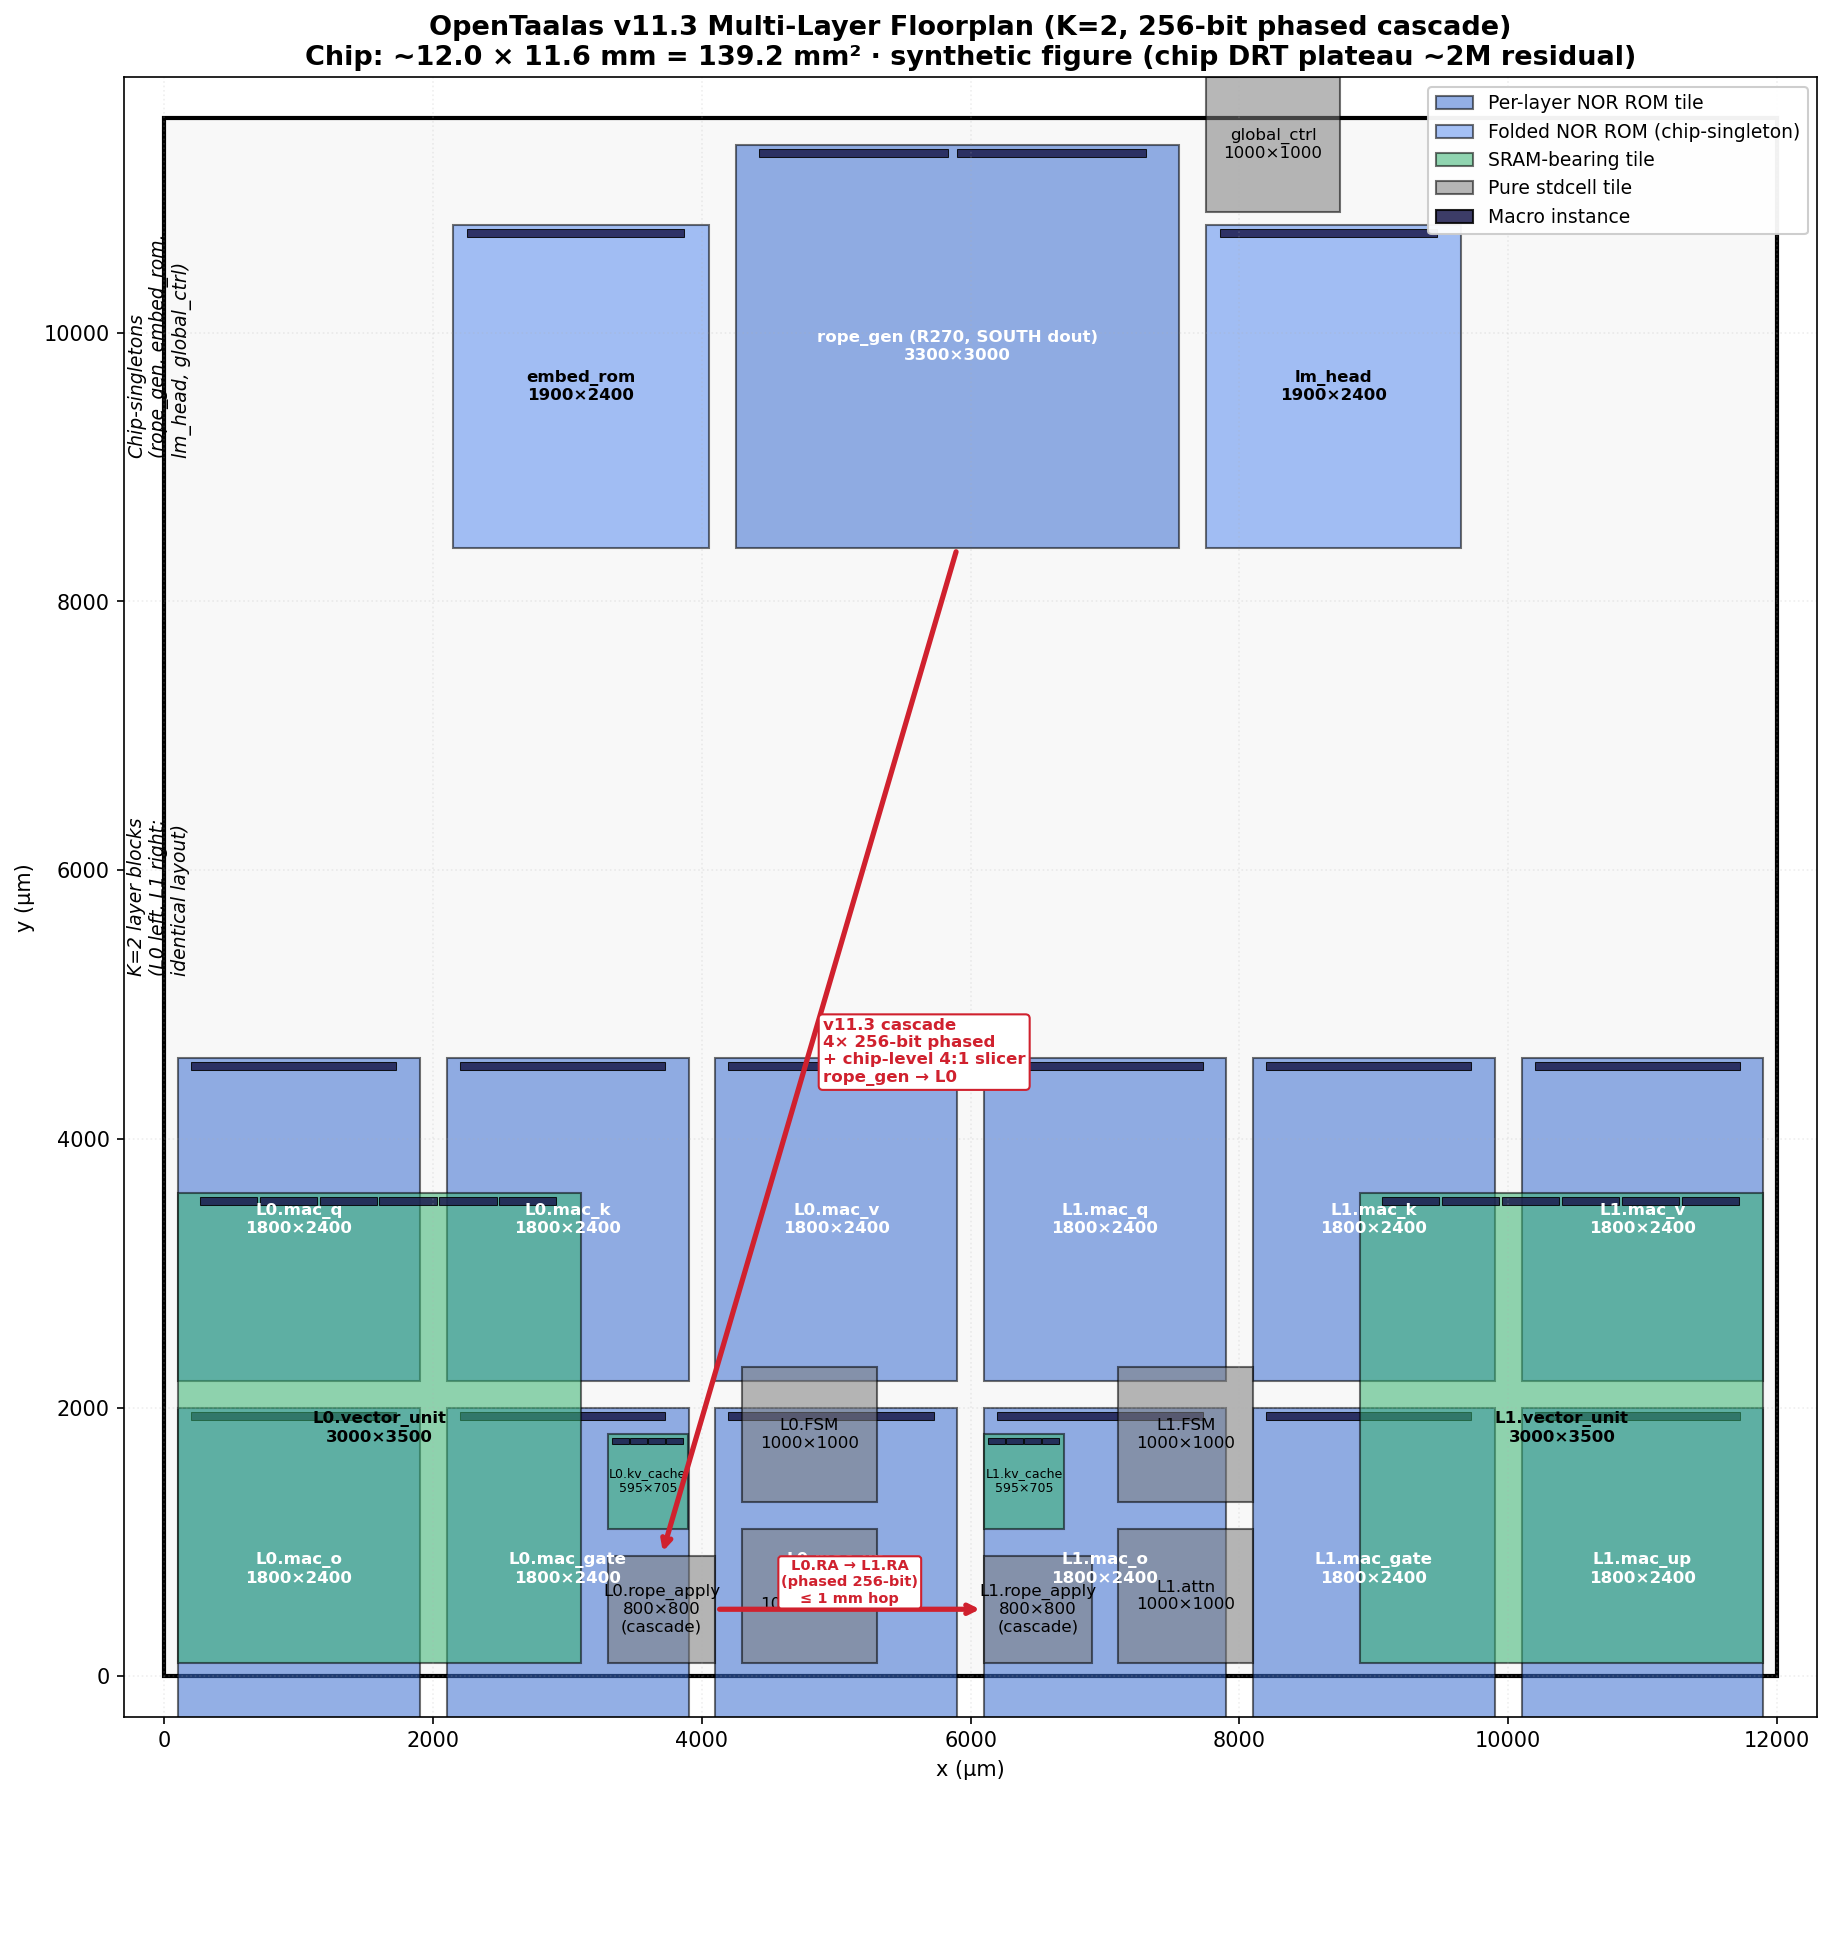
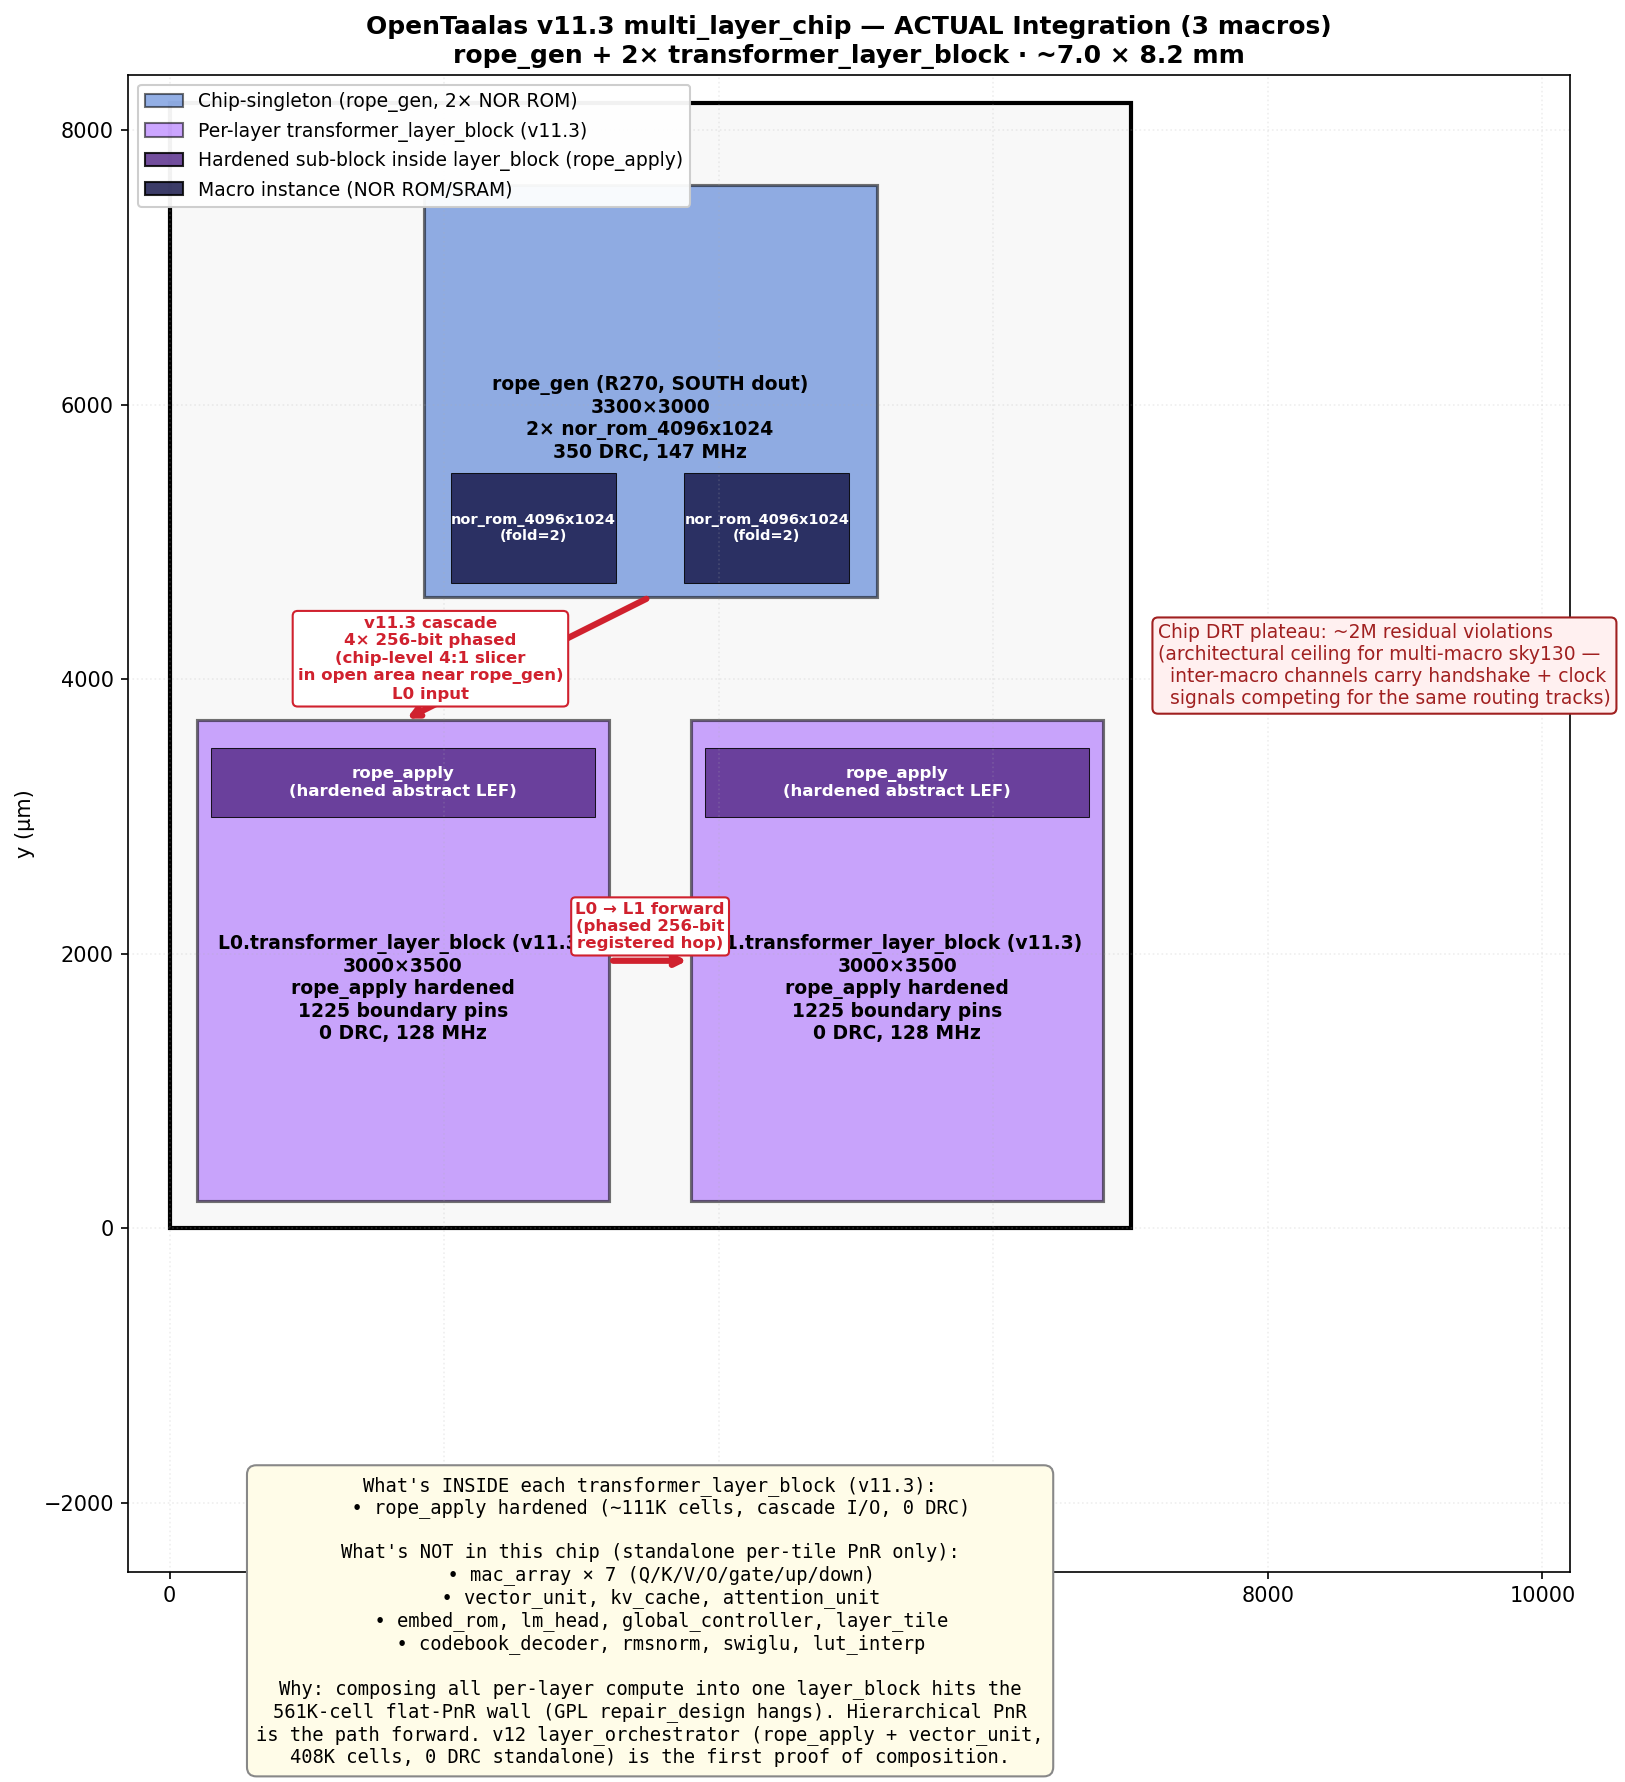
docs: redraw multi_layer_floorplan to match actual v11.3 RTL
The previous figure showed per-layer mac_q/mac_k/mac_v/.../vector_unit/
kv_cache as if they were instantiated at chip level. That was wrong:
multi_layer_chip_wrapper.sv actually instantiates only 3 macros:

  rope_gen + 2× transformer_layer_block

Each transformer_layer_block wraps rope_apply only (~111K cells). The
mac_arrays / vector_unit / kv_cache / attention_unit / embed_rom etc.
are standalone per-tile PnR validations that are NOT in the v11.3
multi-layer chip integration — they hit the 561K-cell flat-PnR wall
when folded into a layer_block.

The redrawn figure shows:
- rope_gen (with the 2 internal nor_rom_4096x1024 fold=2 macros)
- 2× L0/L1.transformer_layer_block (with the hardened rope_apply abstract
  LEF visible inside each)
- Red v11.3 256-bit phased cascade arrows
- A panel listing what's NOT in this chip (and why)
- The chip DRT ~2M residual plateau callout

Updated captions in backend-metrics.md and project-status.md to clarify
this is the real v11.3 chip topology, not a hypothetical full layout.

Previous (misleading) figure preserved as images/multi_layer_floorplan_v8.png.

diff --git a/scripts/render_multi_layer_chip.py b/scripts/render_multi_layer_chip.py
@@ -1,225 +1,172 @@
 #!/usr/bin/env python3
-"""Render the v11.3 K=2 multi-layer floorplan with 256-bit phased cascade.
+"""Render the v11.3 multi_layer_chip floorplan — the ACTUAL integration.
 
-Two physical transformer_layer_block macros (L0, L1) sit side-by-side. The
-chip-shared rope_gen sits at top with a chip-level 4:1 phase slicer feeding
-phased 256-bit segments to each layer_block.
+What is hardened at chip level today (multi_layer_chip_wrapper.sv):
+    1× rope_gen               (chip-singleton)
+    2× transformer_layer_block (per layer; each wraps rope_apply only)
+    + chip-level 4:1 phase slicer in glue logic
 
-v8 → v11.3 changes:
-- rope_apply.k cascade serialized: 1024-bit single-cycle → 4× 256-bit phased
-- transformer_layer_block hardened with 256-bit cascade ports (1225 pins,
-  down from v10's 4290 pins — 3.5× reduction)
-- Chip wrapper has a 4:1 phase slicer in the open area near rope_gen
-- Chip DRT iter-0 violations 38M → 3.66M (10×↓), plateau ~3M → ~2M (33%↓)
-- Chip-level routing dominated by control + handshake + clock in the
-  inter-macro channels — architectural ceiling, not flow-tunable
+That's it. The mac_arrays, vector_unit, kv_cache, attention_unit etc. are
+standalone per-tile PnR validations — they are NOT instantiated in
+multi_layer_chip. Folding them into transformer_layer_block hits the
+561K-cell flat-PnR wall (per `feedback_chip_routing_plateau.md`).
+
+The figure draws the chip honestly and shows where the per-layer compute
+would go in a future hierarchical-PnR-enabled integration.
+
+Updated 2026-05-13 to reflect actual v11.3 RTL (was previously drawing
+hypothetical per-layer mac/vector/kv tiles as if they were integrated).
 """
 import os
 import matplotlib.pyplot as plt
 from matplotlib.patches import Rectangle
 
 
-# Per-tile (name, w, h, n_macros, color, label, group)
-PER_LAYER_TILES = [
-    # mac_array 3x3 grid (Q, K, V, O on row 0; gate, up, down on row 1; row 2 has 1 spare slot used by rope_apply)
-    ("mac_q",    1800, 2400, 1, "#3a6dd0", "mac_q\n1800×2400"),
-    ("mac_k",    1800, 2400, 1, "#3a6dd0", "mac_k\n1800×2400"),
-    ("mac_v",    1800, 2400, 1, "#3a6dd0", "mac_v\n1800×2400"),
-    ("mac_o",    1800, 2400, 1, "#3a6dd0", "mac_o\n1800×2400"),
-    ("mac_gate", 1800, 2400, 1, "#3a6dd0", "mac_gate\n1800×2400"),
-    ("mac_up",   1800, 2400, 1, "#3a6dd0", "mac_up\n1800×2400"),
-    ("mac_down", 1800, 2400, 1, "#3a6dd0", "mac_down\n1800×2400"),
-    ("vector_unit", 3000, 3500, 6, "#37b370", "vector_unit\n3000×3500"),
-    ("kv_cache",     595,  705, 4, "#37b370", "kv_cache\n595×705"),
-    ("attention_unit",1000,1000,0, "#7c7c7c", "attn\n1000×1000"),
-    ("layer_tile",   1000,1000, 0, "#7c7c7c", "FSM\n1000×1000"),
-    ("rope_apply",    800, 800, 0, "#7c7c7c", "rope_apply\n800×800\n(cascade)"),
+# Actual chip-level macros in multi_layer_chip_wrapper.sv (v11.3)
+CHIP_MACROS = [
+    # (name, w, h, color, label)
+    ("rope_gen",    3300, 3000, "#3a6dd0",
+        "rope_gen (R270, SOUTH dout)\n3300×3000\n2× nor_rom_4096x1024\n350 DRC, 147 MHz"),
+    ("l0_block",    3000, 3500, "#a25dff",
+        "L0.transformer_layer_block (v11.3)\n3000×3500\nrope_apply hardened\n1225 boundary pins\n0 DRC, 128 MHz"),
+    ("l1_block",    3000, 3500, "#a25dff",
+        "L1.transformer_layer_block (v11.3)\n3000×3500\nrope_apply hardened\n1225 boundary pins\n0 DRC, 128 MHz"),
 ]
-CHIP_SINGLETONS = [
-    ("rope_gen",    3300, 3000, 2, "#3a6dd0", "rope_gen (R270, SOUTH dout)\n3300×3000"),
-    ("embed_rom",   1900, 2400, 1, "#5b8def", "embed_rom\n1900×2400"),
-    ("lm_head",     1900, 2400, 1, "#5b8def", "lm_head\n1900×2400"),
-    ("global_ctrl", 1000, 1000, 0, "#7c7c7c", "global_ctrl\n1000×1000"),
-]
-
-
-def layer_block_layout(x0, y0, mirror=False):
-    """Place one transformer-layer block at origin (x0, y0).
-
-    Layout per block:
-      mac3x3 grid (5800 × 7600) on top
-      bottom row: VU (3000) | rope_apply (800) | kv_cache (595) | attn (1000) | FSM (1000)
-                 (~6395 wide, fits within 5800 if VU is its own subrow)
-
-    For mirror=True (L1), swap the rope_apply to LEFT side so its EAST cos_out
-    faces L1 NEXT (no L2 in K=2, but conceptually right).
-
-    Returns: dict tile_name → (x, y) (lower-left corner)
-    """
-    placements = {}
-    ch = 200  # channel
-    # mac3x3: 3 cols × 3 rows of (1800×2400). Row order top-to-bottom: Q-K-V, O-gate-up, down-spare-spare
-    mac_names = [
-        ["mac_q", "mac_k", "mac_v"],
-        ["mac_o", "mac_gate", "mac_up"],
-        ["mac_down", None, None],
-    ]
-    # Place mac3x3 in upper part of layer band
-    mac_grid_top_y = y0 + 4500  # leaves room for VU/ctrl below
-    for r in range(3):
-        for c in range(3):
-            name = mac_names[r][c]
-            if name is None:
-                continue
-            mx = x0 + c * (1800 + ch)
-            my = mac_grid_top_y - (r + 1) * 2400 - r * ch
-            placements[name] = (mx, my)
-    # Bottom row: VU (3000×3500), then small tiles
-    vu_x = x0 + (0 if not mirror else (5800 - 3000))
-    vu_y = y0
-    placements["vector_unit"] = (vu_x, vu_y)
-    # Small tiles in remaining width
-    sm_x = x0 + (3000 + ch if not mirror else 0)
-    sm_y_base = y0
-    placements["rope_apply"]    = (sm_x, sm_y_base + 0)
-    placements["kv_cache"]      = (sm_x, sm_y_base + 800 + ch)
-    placements["attention_unit"] = (sm_x + 800 + ch, sm_y_base + 0)
-    placements["layer_tile"]     = (sm_x + 800 + ch, sm_y_base + 1000 + ch)
-    return placements
 
 
 def main():
-    # Chip dimensions
-    layer_block_w = 5800
-    layer_block_h = 8000  # mac3x3 (7400) + bottom row (3500) - 2900 overlap accounting; rough
-    layer_block_h = 4500 + 3500 + 200  # actual: bottom row 3500 + mac3x3 with mac_grid_top_y=4500
-    layer_block_h = 8200  # 4500 + 2400 + 1300 (spacing)
+    # Chip layout: rope_gen on top, 2 layer_blocks below side-by-side.
+    # Channel margin between macros.
+    ch = 300
 
-    chip_w = 2 * layer_block_w + 200  # 11800
-    chip_h = layer_block_h + 200 + 3000  # layer band + channel + singleton band
-    # Bump for label margins
-    chip_w_eff = chip_w + 200
-    chip_h_eff = chip_h + 200
+    # Layer block placements (bottom band)
+    l0_x, l0_y = 200, 200
+    l1_x, l1_y = l0_x + 3000 + 600, 200
 
-    fig, ax = plt.subplots(figsize=(16, 13))
-    ax.add_patch(Rectangle((0, 0), chip_w_eff, chip_h_eff, linewidth=2,
+    # rope_gen placement (top band, centered above the two blocks)
+    rg_x = (l0_x + l1_x + 3000) // 2 - 3300 // 2
+    rg_y = l0_y + 3500 + ch + 600
+
+    placements = {
+        "rope_gen": (rg_x, rg_y),
+        "l0_block": (l0_x, l0_y),
+        "l1_block": (l1_x, l1_y),
+    }
+
+    chip_w = l1_x + 3000 + 200
+    chip_h = rg_y + 3000 + 600
+
+    fig, ax = plt.subplots(figsize=(13, 12))
+    ax.add_patch(Rectangle((0, 0), chip_w, chip_h, linewidth=2,
                            edgecolor="black", facecolor="#f8f8f8"))
 
-    # === TOP BAND: chip-singletons ===
-    top_y = layer_block_h + 200
-    cur_x = 100
-    singleton_pos = {}
-    for name, w, h, n_macros, color, label in CHIP_SINGLETONS:
-        # Stack singletons left-to-right; rope_gen last (it's the widest)
-        pass
-    # Manual placement: rope_gen centered horizontally, embed_rom to its left,
-    # lm_head to its right, global_ctrl tucked next to lm_head.
-    rg_w, rg_h = 3300, 3000
-    rg_x = (chip_w - rg_w) // 2
-    singleton_pos["rope_gen"] = (rg_x, top_y)
-    singleton_pos["embed_rom"] = (rg_x - 1900 - 200, top_y)
-    singleton_pos["lm_head"]   = (rg_x + rg_w + 200, top_y)
-    singleton_pos["global_ctrl"] = (rg_x + rg_w + 200, top_y + 2400 + 100)
-
-    # === LAYER BAND: 2 layer blocks side by side ===
-    l0 = layer_block_layout(100, 100, mirror=False)
-    l1 = layer_block_layout(100 + layer_block_w + 200, 100, mirror=True)
-
-    # Draw all placed tiles
-    def draw_tile(name, x, y, w, h, n_macros, color, label, prefix=""):
-        edge = "black"
-        lw = 1.0
-        ax.add_patch(Rectangle((x, y), w, h, linewidth=lw,
-                               edgecolor=edge, facecolor=color, alpha=0.55))
-        if n_macros and n_macros > 0:
-            macro_h = min(60, h * 0.06)
-            macro_w = w * 0.85 / max(n_macros, 1)
-            for i in range(n_macros):
-                mx = x + (w - n_macros * macro_w * 1.05) / 2 + i * macro_w * 1.05
-                my = y + h - macro_h - 30
-                ax.add_patch(Rectangle((mx, my), macro_w, macro_h,
+    # Draw each macro
+    for name, w, h, color, label in CHIP_MACROS:
+        x, y = placements[name]
+        ax.add_patch(Rectangle((x, y), w, h, linewidth=1.5,
+                               edgecolor="black", facecolor=color, alpha=0.55))
+        # Indicate the inner macros (NOR ROM for rope_gen, abstract for layer_block)
+        if name == "rope_gen":
+            for i, mx in enumerate([x + 200, x + 1900]):
+                ax.add_patch(Rectangle((mx, y + 100), 1200, 800,
                                        linewidth=0.5, edgecolor="black",
                                        facecolor="#1a1a4d", alpha=0.85))
-        fontsize = 6 if min(w, h) < 700 else 8
-        ax.text(x + w / 2, y + h / 2, prefix + label, ha="center", va="center",
-                fontsize=fontsize,
-                color="white" if color == "#3a6dd0" else "black",
-                weight="bold" if min(w, h) >= 1500 else "normal")
+                ax.text(mx + 600, y + 500, f"nor_rom_4096x1024\n(fold=2)",
+                        ha="center", va="center", fontsize=7, color="white", weight="bold")
+        elif "block" in name:
+            # Show the abstract LEF status
+            ax.add_patch(Rectangle((x + 100, y + h - 700), w - 200, 500,
+                                   linewidth=0.5, edgecolor="black",
+                                   facecolor="#5a2f8c", alpha=0.85))
+            ax.text(x + w / 2, y + h - 450, "rope_apply\n(hardened abstract LEF)",
+                    ha="center", va="center", fontsize=8, color="white", weight="bold")
 
-    for name, w, h, n_macros, color, label in PER_LAYER_TILES:
-        x, y = l0[name]
-        draw_tile(name, x, y, w, h, n_macros, color, label, prefix="L0.")
-        x, y = l1[name]
-        draw_tile(name, x, y, w, h, n_macros, color, label, prefix="L1.")
+        ax.text(x + w / 2, y + h / 2 - 200, label, ha="center", va="center",
+                fontsize=9, color="black", weight="bold")
 
-    for name, w, h, n_macros, color, label in CHIP_SINGLETONS:
-        x, y = singleton_pos[name]
-        draw_tile(name, x, y, w, h, n_macros, color, label)
-
-    # === Cascade arrows ===
-    # rope_gen SOUTH → L0.rope_apply NORTH
-    rg_x, rg_y = singleton_pos["rope_gen"]
-    rg_south_x = rg_x + rg_w / 2
+    # === Cascade arrows (v11.3 256-bit phased) ===
+    # rope_gen SOUTH → L0.layer_block (cos/sin row, sliced 4:1 in chip glue)
+    rg_south_x = rg_x + 3300 / 2
     rg_south_y = rg_y
-    l0_ra_x, l0_ra_y = l0["rope_apply"]
-    l0_ra_north_x = l0_ra_x + 800 / 2
-    l0_ra_north_y = l0_ra_y + 800
+    l0_north_x = l0_x + 3000 / 2
+    l0_north_y = l0_y + 3500
     ax.annotate("",
-                xy=(l0_ra_north_x, l0_ra_north_y),
+                xy=(l0_north_x, l0_north_y),
                 xytext=(rg_south_x, rg_south_y),
-                arrowprops=dict(arrowstyle="->", color="#d0212e", lw=2.5))
-    ax.text((rg_south_x + l0_ra_north_x) / 2 + 100,
-            (rg_south_y + l0_ra_north_y) / 2,
-            "v11.3 cascade\n4× 256-bit phased\n+ chip-level 4:1 slicer\nrope_gen → L0",
-            ha="left", va="center", fontsize=8, color="#d0212e", weight="bold",
+                arrowprops=dict(arrowstyle="->", color="#d0212e", lw=3))
+    ax.text(rg_south_x - 1600, (rg_south_y + l0_north_y) / 2,
+            "v11.3 cascade\n4× 256-bit phased\n(chip-level 4:1 slicer\nin open area near rope_gen)\nL0 input",
+            ha="center", va="center", fontsize=8, color="#d0212e", weight="bold",
+            bbox=dict(boxstyle="round,pad=0.3", facecolor="white", edgecolor="#d0212e"))
+
+    # L0 → L1 forward cascade (registered pass-through)
+    l0_east_x = l0_x + 3000
+    l0_east_y = l0_y + 3500 / 2
+    l1_west_x = l1_x
+    l1_west_y = l1_y + 3500 / 2
+    ax.annotate("",
+                xy=(l1_west_x, l1_west_y),
+                xytext=(l0_east_x, l0_east_y),
+                arrowprops=dict(arrowstyle="->", color="#d0212e", lw=3))
+    ax.text((l0_east_x + l1_west_x) / 2, (l0_east_y + l1_west_y) / 2 + 250,
+            "L0 → L1 forward\n(phased 256-bit\nregistered hop)",
+            ha="center", va="center", fontsize=8, color="#d0212e", weight="bold",
             bbox=dict(boxstyle="round,pad=0.25", facecolor="white", edgecolor="#d0212e"))
 
-    # L0.rope_apply EAST → L1.rope_apply WEST (cascade hop)
-    l0_ra_east_x = l0_ra_x + 800
-    l0_ra_east_y = l0_ra_y + 800 / 2
-    l1_ra_x, l1_ra_y = l1["rope_apply"]
-    l1_ra_west_x = l1_ra_x
-    l1_ra_west_y = l1_ra_y + 800 / 2
-    ax.annotate("",
-                xy=(l1_ra_west_x, l1_ra_west_y),
-                xytext=(l0_ra_east_x, l0_ra_east_y),
-                arrowprops=dict(arrowstyle="->", color="#d0212e", lw=2.5))
-    midx = (l0_ra_east_x + l1_ra_west_x) / 2
-    midy = (l0_ra_east_y + l1_ra_west_y) / 2
-    ax.text(midx, midy + 200,
-            "L0.RA → L1.RA\n(phased 256-bit)\n≤ 1 mm hop",
-            ha="center", va="center", fontsize=7, color="#d0212e", weight="bold",
-            bbox=dict(boxstyle="round,pad=0.2", facecolor="white", edgecolor="#d0212e"))
+    # === Note: what's missing from this chip ===
+    note_text = (
+        "What's INSIDE each transformer_layer_block (v11.3):\n"
+        "  • rope_apply hardened (~111K cells, cascade I/O, 0 DRC)\n"
+        "\n"
+        "What's NOT in this chip (standalone per-tile PnR only):\n"
+        "  • mac_array × 7 (Q/K/V/O/gate/up/down)\n"
+        "  • vector_unit, kv_cache, attention_unit\n"
+        "  • embed_rom, lm_head, global_controller, layer_tile\n"
+        "  • codebook_decoder, rmsnorm, swiglu, lut_interp\n"
+        "\n"
+        "Why: composing all per-layer compute into one layer_block hits the\n"
+        "561K-cell flat-PnR wall (GPL repair_design hangs). Hierarchical PnR\n"
+        "is the path forward. v12 layer_orchestrator (rope_apply + vector_unit,\n"
+        "408K cells, 0 DRC standalone) is the first proof of composition."
+    )
+    ax.text(chip_w / 2, -1800, note_text,
+            ha="center", va="top", fontsize=9, family="monospace",
+            bbox=dict(boxstyle="round,pad=0.5", facecolor="#fffce8", edgecolor="#888"))
+
+    # === Chip DRT plateau callout ===
+    plateau_text = (
+        "Chip DRT plateau: ~2M residual violations\n"
+        "(architectural ceiling for multi-macro sky130 — \n"
+        "  inter-macro channels carry handshake + clock\n"
+        "  signals competing for the same routing tracks)"
+    )
+    ax.text(chip_w + 200, chip_h / 2, plateau_text,
+            ha="left", va="center", fontsize=9, color="#a02020",
+            bbox=dict(boxstyle="round,pad=0.3", facecolor="#fff0f0", edgecolor="#a02020"))
 
     # Title and axes
-    ax.set_xlim(-300, chip_w_eff + 300)
-    ax.set_ylim(-300, chip_h_eff + 300)
+    ax.set_xlim(-300, chip_w + 3200)
+    ax.set_ylim(-2500, chip_h + 200)
     ax.set_aspect("equal")
     ax.set_xlabel("x (µm)")
     ax.set_ylabel("y (µm)")
-    title = ("OpenTaalas v11.3 Multi-Layer Floorplan (K=2, 256-bit phased cascade)\n"
-             f"Chip: ~{chip_w_eff/1000:.1f} × {chip_h_eff/1000:.1f} mm "
-             f"= {chip_w_eff*chip_h_eff/1e6:.1f} mm² · synthetic figure (chip DRT plateau ~2M residual)")
-    ax.set_title(title, fontsize=13, weight="bold")
+    title = ("OpenTaalas v11.3 multi_layer_chip — ACTUAL Integration (3 macros)\n"
+             f"rope_gen + 2× transformer_layer_block · "
+             f"~{chip_w/1000:.1f} × {chip_h/1000:.1f} mm")
+    ax.set_title(title, fontsize=12, weight="bold")
     ax.grid(True, alpha=0.2, linestyle=":")
 
-    # Legend (reuse v7 colors)
     legend_elems = [
-        Rectangle((0,0), 1, 1, facecolor="#3a6dd0", alpha=0.55, edgecolor="black", label="Per-layer NOR ROM tile"),
-        Rectangle((0,0), 1, 1, facecolor="#5b8def", alpha=0.55, edgecolor="black", label="Folded NOR ROM (chip-singleton)"),
-        Rectangle((0,0), 1, 1, facecolor="#37b370", alpha=0.55, edgecolor="black", label="SRAM-bearing tile"),
-        Rectangle((0,0), 1, 1, facecolor="#7c7c7c", alpha=0.55, edgecolor="black", label="Pure stdcell tile"),
-        Rectangle((0,0), 1, 1, facecolor="#1a1a4d", alpha=0.85, edgecolor="black", label="Macro instance"),
+        Rectangle((0,0), 1, 1, facecolor="#3a6dd0", alpha=0.55, edgecolor="black",
+                  label="Chip-singleton (rope_gen, 2× NOR ROM)"),
+        Rectangle((0,0), 1, 1, facecolor="#a25dff", alpha=0.55, edgecolor="black",
+                  label="Per-layer transformer_layer_block (v11.3)"),
+        Rectangle((0,0), 1, 1, facecolor="#5a2f8c", alpha=0.85, edgecolor="black",
+                  label="Hardened sub-block inside layer_block (rope_apply)"),
+        Rectangle((0,0), 1, 1, facecolor="#1a1a4d", alpha=0.85, edgecolor="black",
+                  label="Macro instance (NOR ROM/SRAM)"),
     ]
-    ax.legend(handles=legend_elems, loc="upper right", fontsize=9, framealpha=0.95)
-
-    # Annotation key
-    ax.text(-280, chip_h_eff / 2,
-            "K=2 layer blocks\n(L0 left, L1 right;\nidentical layout)",
-            ha="left", va="center", fontsize=9, style="italic", rotation=90)
-    ax.text(-280, top_y + 1500,
-            "Chip-singletons\n(rope_gen, embed_rom,\nlm_head, global_ctrl)",
-            ha="left", va="center", fontsize=9, style="italic", rotation=90)
+    ax.legend(handles=legend_elems, loc="upper left", fontsize=9, framealpha=0.95)
 
     plt.tight_layout()
     out = "/home/mana/workspace/OpenTaalas/docs/images/multi_layer_floorplan.png"

diff --git a/docs/backend-metrics.md b/docs/backend-metrics.md
@@ -69,11 +69,15 @@ Synthetic figure (post v12 layer_orchestrator) — chip layout ~13.7 × 8.7 mm =
 
 **Red arrow:** v11.3 256-bit phased cascade `rope_gen → transformer_layer_block` (replaces v10's 1024-bit single-cycle bus; chip-level 4:1 slicer in chip glue). **Dashed purple arrow:** v12 composition path — `rope_apply` and `vector_unit` are composed inside `layer_orchestrator` as private class fields. Tiles with red borders indicate standalone PnR pending (`vector_unit` — but composes cleanly inside the v12 orchestrator).
 
-### Multi-Layer Floorplan (v11.3 K=2 cascade)
+### Multi-Layer Floorplan (v11.3 — what's actually integrated)
 
 ![multi layer floorplan v11.3](images/multi_layer_floorplan.png)
 
-K=2 chip integration: two `transformer_layer_block` instances side-by-side, chained via 256-bit phased cascade. `rope_gen` at top broadcasts a single 1024-bit row per cycle to a chip-level 4:1 slicer that delivers 4 phased 256-bit segments to L0; L0 forwards to L1 via short cascade hop. Chip DRT reaches ~2M residual (architectural ceiling, not flow-tunable — see v11.3 section above).
+**Faithful drawing of the v11.3 `multi_layer_chip` chip-level integration** — only 3 macros: `rope_gen` + 2× `transformer_layer_block`. Each `transformer_layer_block` (purple) wraps only the hardened `rope_apply` abstract LEF — the rest of the per-layer compute (mac_arrays, vector_unit, kv_cache, attention_unit, etc.) is NOT integrated at chip level. Those are standalone per-tile PnR validations that hit the 561K-cell flat-PnR wall when composed.
+
+Cascade: `rope_gen` SOUTH dout → chip-level 4:1 phase slicer (in chip glue) → L0 NORTH; L0 EAST → L1 WEST forward register. Chip DRT plateau ~2M residual is architectural (inter-macro channels carry handshake + clock signals competing for the same routing tracks).
+
+The earlier figure (`images/multi_layer_floorplan_v8.png`) showed the v8 hypothetical layout with per-layer mac/vector/kv tiles drawn as if integrated — that was misleading and has been replaced.
 
 ### Rendered Floorplans (per-tile)
 

diff --git a/docs/project-status.md b/docs/project-status.md
@@ -115,11 +115,15 @@ See [backend-metrics.md](backend-metrics.md) for full metrics, timing analysis, 
 
 20 hardened tiles arranged on ~13.7 × 8.7 mm = 119 mm² (synthetic, post v12 layer_orchestrator), organized into four tiers: folded NOR ROM + composition tiles (top), large macro-bearing (middle), small SRAM-bearing (bottom-middle), pure stdcell (bottom). Red arrow shows the v11.3 256-bit phased cascade `rope_gen → transformer_layer_block`; dashed purple arrow shows the v12 composition path where `rope_apply` + `vector_unit` are composed inside `layer_orchestrator`. Earlier-iteration synthetic figures preserved as `images/full_chip_floorplan_v7.png` (pre-v8) and `images/multi_layer_floorplan_v8.png` (1024-bit single-cycle cascade).
 
-### Multi-Layer Floorplan (v11.3 K=2 cascade)
+### Multi-Layer Floorplan (v11.3 — actual integration)
 
 ![multi layer floorplan v11.3](images/multi_layer_floorplan.png)
 
-Two `transformer_layer_block` instances (L0, L1) chained via 256-bit phased cascade. `rope_gen` at top broadcasts to L0 (via chip-level 4:1 phase slicer); L0 forwards to L1. Boundary pin count per layer_block: 1225 (vs v10's 4290 — 3.5×↓).
+**This is the real `multi_layer_chip` topology**, not a hypothetical: only 3 macros are instantiated at chip level (`rope_gen` + 2× `transformer_layer_block`). Each `transformer_layer_block` wraps `rope_apply` only — the per-layer compute (mac_arrays, vector_unit, kv_cache, attention_unit, embed_rom, lm_head, layer_tile, etc.) is standalone per-tile PnR only, not integrated. Composing all of it into one layer_block hits the 561K-cell flat-PnR wall; hierarchical PnR is the path forward.
+
+Cascade: `rope_gen` SOUTH dout → chip-level 4:1 phase slicer → L0 NORTH; L0 forwards to L1 (256-bit phased registered hop). Boundary pin count per layer_block: 1225 (vs v10's 4290 — 3.5×↓). Chip DRT plateau ~2M residual is architectural.
+
+Older synthetic figure (with hypothetical per-layer mac/vector/kv tiles drawn as if integrated) preserved as `images/multi_layer_floorplan_v8.png`.
 
 ### Test Suite
 - **44 E2E checks** at CI dimensions — all passing